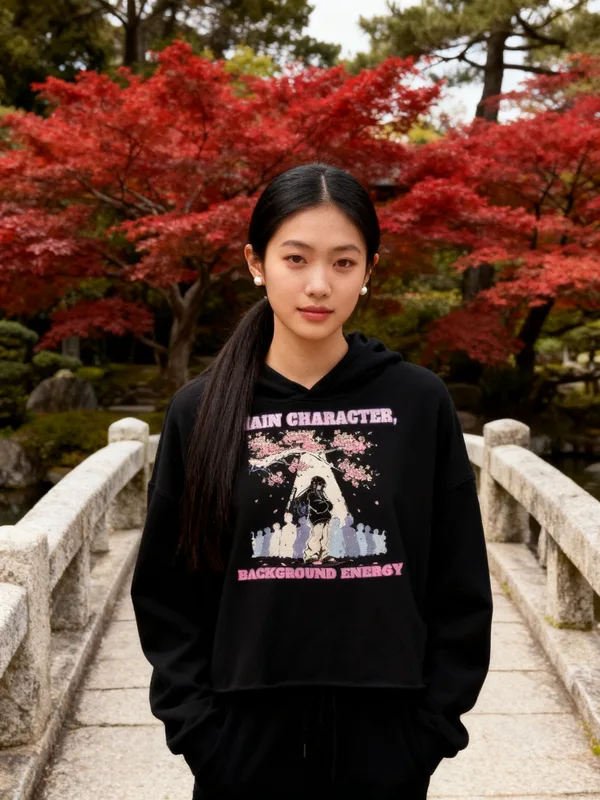
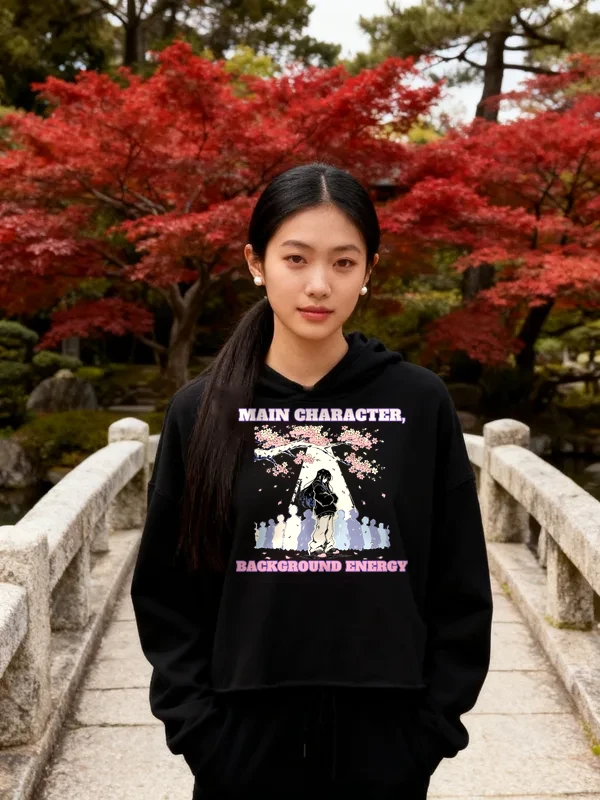
[B] review 435 Main Character cropped hoodie REDO: composite cover
Claude-Session: https://claude.ai/code/session_01MJ4qTtvktDr5hbbbYk9fb9

Changed region(s): [[0.36, 0.5, 0.69, 0.75]]

diff --git a/scripts/cover-composite.py b/scripts/cover-composite.py
@@ -37,14 +37,14 @@ garment = np.median(reg.reshape(-1, 3), axis=0)
 base = cv2.GaussianBlur(c, (0, 0), 25)[Y0:Y1, X0:X1]
 diff = np.abs(reg - np.median(reg.reshape(-1, 3), 0)).max(2)
 old = (((diff > 28) & (hair == 0)) | (over > 0)).astype(np.uint8)
-old[:m, :] = 0; old[-m:, :] = 0; old[:, :m] = 0; old[:, -m:] = 0
+old[:3, :] = 0; old[-3:, :] = 0; old[:, :3] = 0; old[:, -3:] = 0
 old = cv2.dilate(old, np.ones((5, 5), np.uint8))
 clean = cv2.inpaint(reg.astype(np.uint8), old, 6, cv2.INPAINT_TELEA).astype(np.float32)
 clean = np.where(keep[..., None] > 0, reg, clean)
 # shading from the cleaned garment
 sh = cv2.GaussianBlur(clean, (0, 0), 3)
-sh = sh / np.maximum(np.median(sh.reshape(-1, 3), 0), 1)
-sh = np.clip(sh, 0.5, 1.15)
+L = sh.mean(2, keepdims=True)
+sh = np.clip((L + 25) / (np.median(L) + 25), 0.75, 1.1)  # luminance only, floored so near-black garments don't tint the print
 alpha = np.zeros(reg.shape[:2], np.float32); rgb = np.zeros_like(reg)
 ox, oy = x0 - X0, y0 - Y0
 ph, pw = pa.shape[:2]

diff --git a/docs/intake-log.md b/docs/intake-log.md
@@ -1,4 +1,5 @@
 RUNNING lane B since 2026-10-17 23:29 UTC
+2026-10-17 23:32 UTC — [B] REVIEW #435 Main Character cropped hoodie REDO (composite cover, no fal).
 2026-10-17 23:32 UTC — [B] REVIEW #396 Yeehaw, but Quietly crewneck REDO (R6.9 composite cover, no fal).
 2026-10-17 23:21 UTC — [E] #356 Saturday Night Rodeo hoodie built except cover (art, sync 12/12, mockups, copy done); cover attempt 2 waits for fal cap reset 00:00 UTC. fal $15.96 of $16. Lock released.
 2026-10-17 23:23 UTC — [D] Director run: inbox 1 ('turkey hoodie' collision again: Long Beard Short Temper camo hoodie now targets 'turkey hunting' 9,900 / KD 22, SEO title + meta + first sentence in Shopify, map updated, audit PASS). Reviewed 7 REVIEW sheets: 6 LIVE (#281 Doorbusters tee, #327 Short Legs Long Opinions hoodie, #415 Sweet Until Further Notice hoodie, #461 Expert in Après crew, #487 University of Staying In crew, #493 Calm Face Loud Brain crew; all ACTIVE + Online Store/Headless/Google & YouTube, audit PASS, all 6 pages 200; doubled '8 oz' FAQ sentence fixed on #487/#493), 1 REDO (#474: 'Saturday, 7 a.m.' unreadable on Sand, needs the brown keyline). #487 to reference/best. 3 new briefs #512 golden retriever crew (B), #513 dachshund crew (B), #514 pitbull crew (E). Lane C left at 9 READY: every hoodie phrase swept this run (capybara, welding, pit bull, bear, running, cat, camping, hiking, nurse) was either claimed or failed the 500+ favorite proof (capybara top 467, welder hoodie top 465); next run sweeps dog/cat hoodie long-tails and hoodie twins of LIVE winners. Telegram sent. Lock released.

diff --git a/docs/pipeline/435-anime-cropped-hoodie-petal-pusher.md b/docs/pipeline/435-anime-cropped-hoodie-petal-pusher.md
@@ -1,4 +1,4 @@
-status: REDO
+status: REVIEW
 lane: B
 type: new
 id: 435
@@ -38,3 +38,4 @@ kd: 20
 - 2026-10-17 22:26 UTC director: REDO.
   1. R6.9 (hair): her ponytail still covers the M, so the cover reads AIN CHARACTER, which is the defect you flagged yourself. Composite the exact print from the Black mockup onto the cover's chest in print-prep, with the ponytail behind the shoulder. Read MAIN CHARACTER, / BACKGROUND ENERGY letter by letter. No new fal call.
   2. (Withdrawn by the director: "Original art, made for Graphic Tees Co." is the SOP line for ai-art and stays.)
+- 2026-10-17 23:58 UTC builder [B]: REDO 1 done (R6.9 composite, no fal): scripts/cover-composite.py fitted the exact an-print.png onto her chest (172 px wide on the 600 px cover, old print inpainted away, luminance shading); ponytail now hangs beside the print, M of MAIN fully clear. Read MAIN CHARACTER, / BACKGROUND ENERGY letter by letter. Person, scene, garment unchanged. Sheet updated. Set REVIEW.
